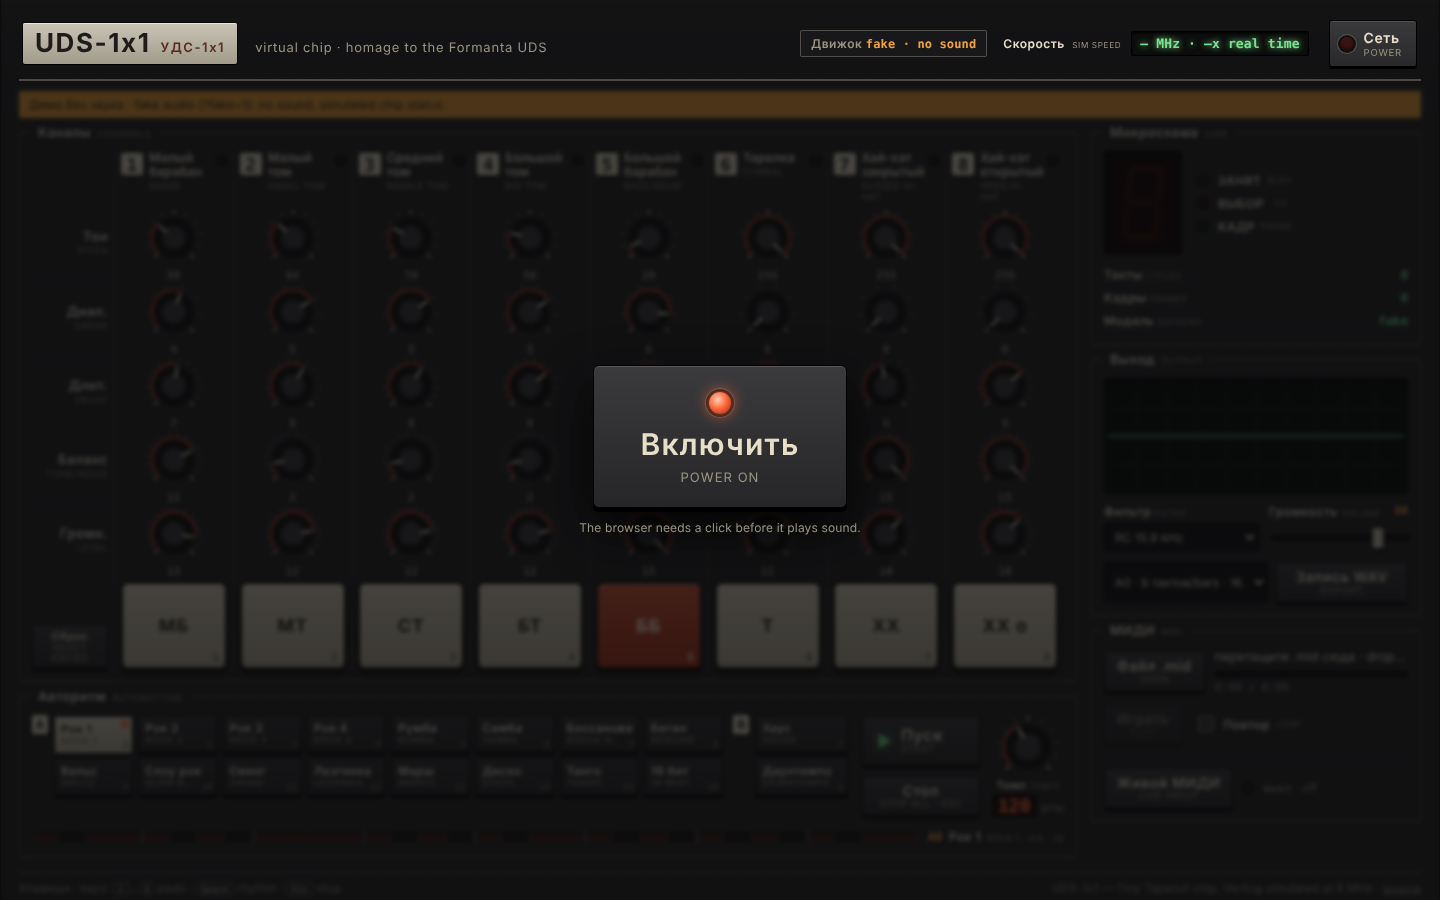
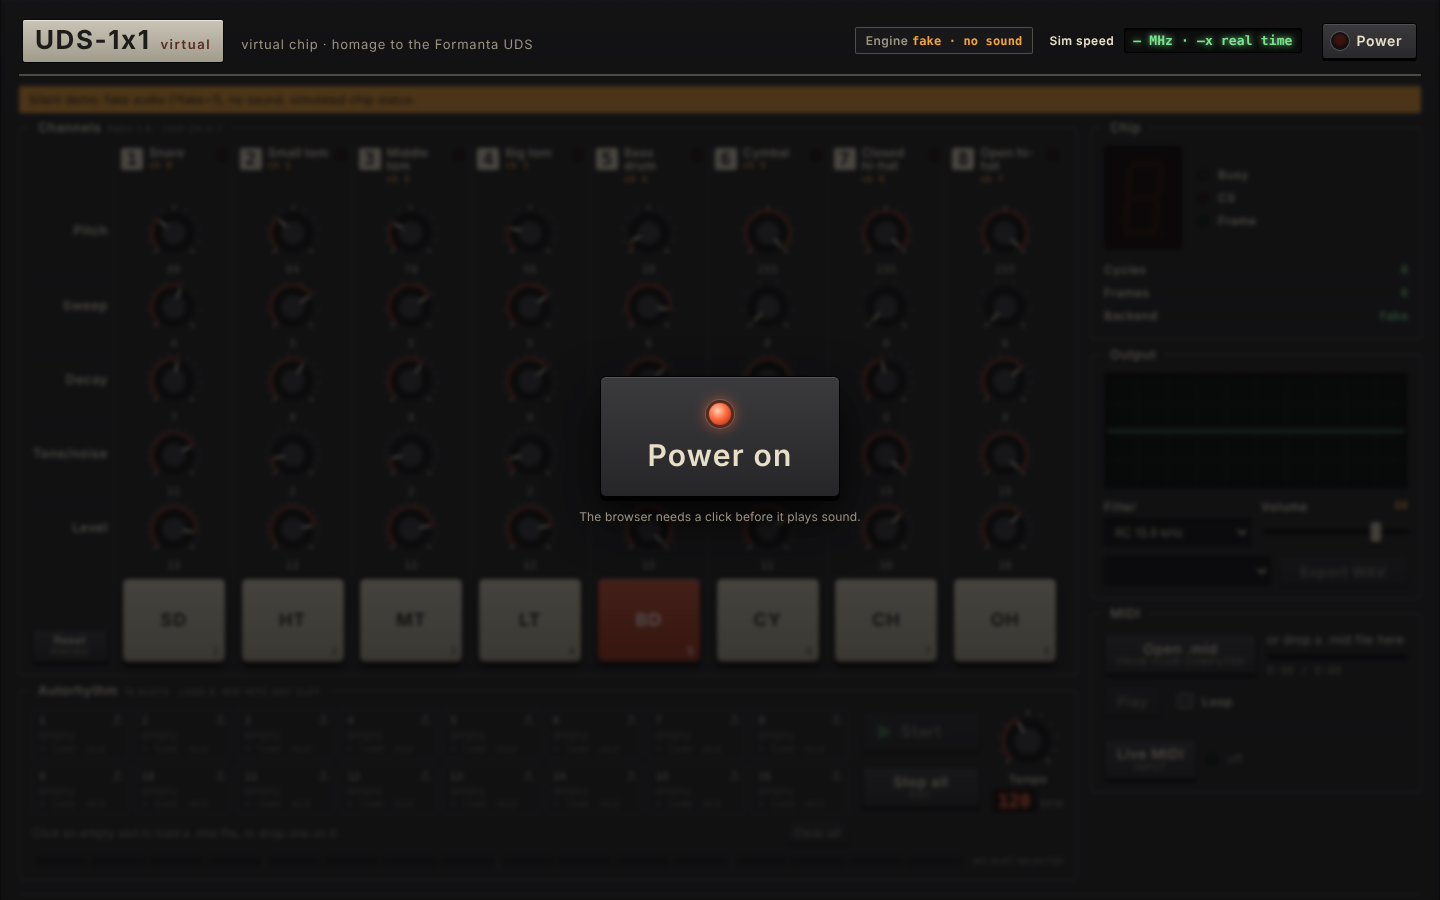
slots: tests (node, ui, e2e), screenshots, CONTRACT sections 5 and 6
Claude-Session: https://claude.ai/code/session_012yUG9fLW5U5KYatDDh3AkK

diff --git a/CONTRACT.md b/CONTRACT.md
@@ -117,6 +117,15 @@ uds.patterns;               // [{ id: 'A0'..'A15', 'B0', 'B1', bank, index, name
 uds.setPattern(id); uds.setTempo(bpm);   // tempo 40..240, default 120
 uds.startRhythm(); uds.stopRhythm(); uds.rhythmPlaying; uds.pattern /* id string, e.g. 'A0' */; uds.tempo;
 
+// Autorhythm slots (the panel's rhythm source; the built-in patterns above stay in the API, unused by the panel)
+uds.slots;                  // Array(16): null or { index, name, bars, steps, stepsPerBeat (4), stepsPerBar, beatSteps,
+                            //   meter, notes: [{ step, ch, v, velocity, note }], bpm, truncated, unmapped }
+await uds.loadSlot(index, arrayBuffer, name);   // -> the slot; throws an Error if no note maps to a drum channel
+uds.clearSlot(index); uds.setSlot(index | null); uds.slot;   // selected index or null (null = the pattern plays)
+// startRhythm() does nothing while the selected slot is empty. setSlot applies the slot's bpm; while playing,
+// a slot-to-slot switch happens at the next bar line and starts at bar 1. renderWav({ what: 'rhythm' })
+// renders the selected slot (default 8 bars + 1 s).
+
 await uds.loadMidi(arrayBuffer, name);   // -> { name, duration, notes, unmapped: { [note]: count } }
 uds.playMidi(); uds.stopMidi(); uds.setMidiLoop(on); uds.midiPlaying;
 
@@ -131,7 +140,8 @@ await uds.renderWav({ what: 'rhythm' | 'midi', seconds });   // -> Blob (audio/w
 //           simHz = chip clocks per second of time spent in engine.render (smoothed); realtime = simHz / 6e6,
 //           i.e. headroom. Extra fields: leadTargetMs, dropped, hits, sampleRate, backend, mock, midi
 //  'hit'    { ch, level, source: 'pad' | 'rhythm' | 'midi' | 'midi-in' }    when the hit is heard
-//  'step'   { index, length, patternId }                                  when a rhythm step is heard
+//  'step'   { index, length, patternId, slot }    when a rhythm step is heard (slot: index, or null for a pattern)
+//  'slots'  { slots, slot }                       after loadSlot, clearSlot, setSlot
 //  'midi'   { position, duration, playing }
 //  'midi-input' { inputs }
 //  'error'  { message }
@@ -145,6 +155,13 @@ Rules shared by every source of hits (pads, rhythm, MIDI file, live MIDI):
   softer (as in `pattern_events` in the model).
 - A rhythm step lasts `60 / (tempo * stepsPerBeat)` seconds. Bank B patterns carry a default bpm, which
   `setPattern` applies.
+- Slots (`app/audio/slots.js`): the MIDI file's note map and channel rule below; note-ons quantized to the
+  nearest 16th; the loop is whole bars of the first time signature (default 4/4) covering the last note and
+  the last whole bar before end-of-track, at most 4 bars (later notes dropped, `truncated: true`); per-hit
+  velocity as below; two notes on one step and channel play once at the higher velocity; bpm = the first
+  tempo, rounded, clamped to 40..240 (120 if none).
+- Output: the worker's 3x make-up gain is followed by a soft limiter (linear to 0.8, tanh knee towards 1.0),
+  not a hard clamp.
 - MIDI file: General MIDI drum notes on channel 10 (if a file has no notes on channel 10, all channels are
   used). Live MIDI: note-ons on any channel. Velocity 1..127 maps to v = velocity / 127. Note map:
 
@@ -177,7 +194,9 @@ The page sets `window.uds` to its `UDSAudio` instance once created, mirrors `uds
 | `power` | the start button (first click starts audio) |
 | `pad-0` .. `pad-7` | pads |
 | `knob-<ch>-<key>` | knobs, e.g. `knob-4-pitch`: `role="slider"`, `aria-valuemin/max/now`, arrow keys change it |
-| `pattern-<id>` | pattern buttons, e.g. `pattern-A0` |
+| `slot-0` .. `slot-15` | Autorhythm slot buttons (click: select; an empty slot also opens the file picker) |
+| `slot-file-0` .. `slot-file-15` | `<input type=file accept=".mid,.midi">` per slot (hidden) |
+| `slot-clear-0` .. `slot-clear-15` | clear one slot (`slot-load-<n>` replaces its file; `slots-clear-all` clears all after a second click) |
 | `rhythm-toggle`, `tempo` | rhythm start/stop, tempo control (`role="slider"` or `<input type=range>`) |
 | `midi-file`, `midi-play`, `midi-input` | `<input type=file>` for .mid, play/stop, enable live MIDI |
 | `filter`, `volume` | filter switch, master volume |
@@ -187,7 +206,9 @@ The page sets `window.uds` to its `UDSAudio` instance once created, mirrors `uds
 
 - `filter` is a `<select>` (values `rc`, `warm`, `off`), `volume` an `<input type=range>` 0..1, `tempo` a
   knob (`role="slider"`).
-- `body.ready` is set once the panel is fully built (pads, knobs and patterns appear after
+- The pattern buttons (`pattern-<id>`) were removed: the panel is English only and the Autorhythm plays .mid
+  files from 16 slots, saved in localStorage (`uds-virtual.slots.v1`: base64 bytes + name, and the selection).
+- `body.ready` is set once the panel is fully built (pads, knobs and stored slots appear after
   `UDSAudio.create()` resolves); tests wait for it.
 
 URL flags: `?engine=mock` makes the page use the mock engine; `?fake=1` uses the ui's silent fake

diff --git a/app/audio/README.md b/app/audio/README.md
@@ -8,7 +8,7 @@ UDSAudio ── commands ───────────▶ engine-worker.js  
   │  (postMessage)                  engine (wasm or mock)                     FIFO of chunks
   │                                 Scheduler: rhythm + MIDI file             underrun -> silence, counted
   │ ◀── status ~20/s ─────────────  render() split at event samples ──chunks▶  (MessagePort, transferred)
-  │                                 3x make-up gain, 10 Hz DC blocker  ◀──── played count every 8 quanta
+  │                                 3x gain, soft limit, 10 Hz DC block  ◀──── played count every 8 quanta
   │ ◀──────────────── hit / step marks, posted when the worklet plays them ────────┘
 AudioWorkletNode → GainNode (volume) → AnalyserNode → destination
 ```
@@ -19,6 +19,8 @@ AudioWorkletNode → GainNode (volume) → AnalyserNode → destination
 | `engine-worker.js` | Runs the engine ahead of real time (live mode) or as fast as possible (`renderWav`) |
 | `player-worklet.js` | AudioWorkletProcessor `uds-player` |
 | `scheduler.js` | Autorhythm sequencer and MIDI-file player, in output-sample positions (pure, tested in Node) |
+| `slots.js` | Autorhythm slots: .mid -> 16th-grid loop (quantize, bars, 4-bar cap, velocity, tempo), as a Scheduler pattern |
+| `limiter.js` | Soft limiter after the make-up gain (linear to 0.8, tanh knee) |
 | `midi.js` | SMF parser (formats 0/1, running status, tempo map), SMF writer, GM drum map, velocity rule |
 | `mock-engine.js` | `loadMockEngine`: engine interface in plain JS, a frame-level port of `chip/model/uds_model.py` |
 | `wav.js` | 16-bit PCM WAV encoder (and a small decoder for tests) |
